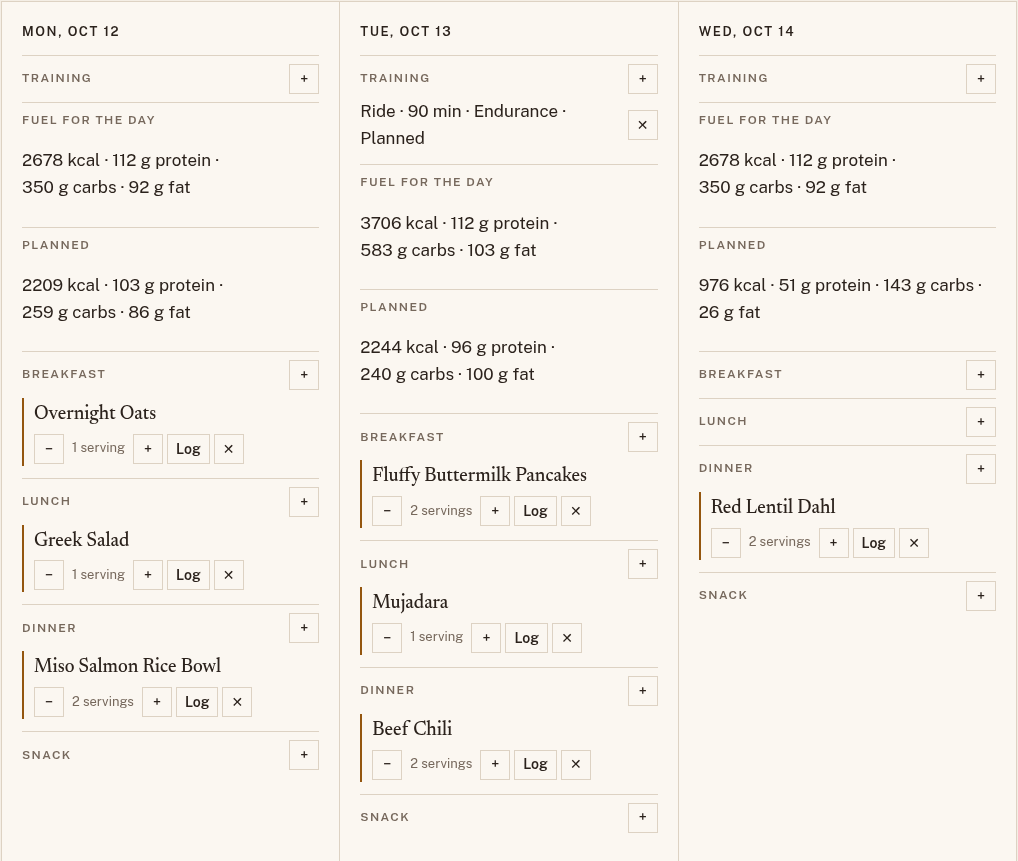
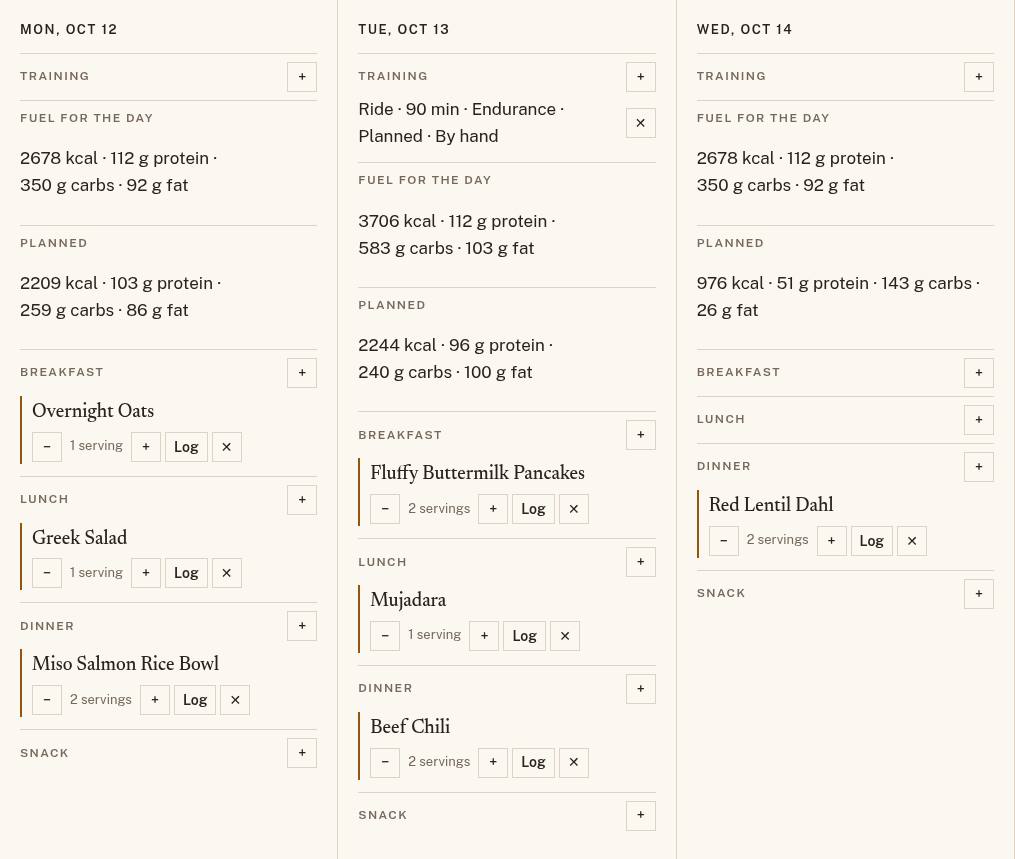
docs: connecting intervals.icu, for people and for self-hosters
The fuel guide explains connecting intervals.icu, what comes across and
how often, Refresh, what each problem means, and Disconnect, and lists
all five sources of training energy in order. The self-hosting guide
covers MIMOS_SECRET_KEY, turning the integration off, rotating the key,
and the sync interval. Screenshots: the connected section, and the plan
week retaken with each session's source.

diff --git a/docs/guide/fuel.md b/docs/guide/fuel.md
@@ -51,7 +51,9 @@ harm health and performance.
 With targets on, each day on the [plan](planning.md) shows three lines
 above its meals:
 
-- **Training**: the sessions you've added for that day.
+- **Training**: the sessions you've added for that day, and any that
+  came from [intervals.icu](#bring-in-training-from-intervalsicu). Each
+  says where it came from: **By hand** or **intervals.icu**.
 - **Fuel for the day**: the day's target.
 - **Planned**: what you'll eat if you eat what you planned. See
   [Your planned total](planning.md#your-planned-total).
@@ -86,6 +88,63 @@ Mimos counts the training you add to a day.
 The day's fuel for the day changes at once. A day can hold several
 sessions, and they add up. To take one out, choose **✕** next to it.
 
+## Bring in training from intervals.icu
+
+If you plan or record your training in [intervals.icu](https://intervals.icu),
+Mimos can bring it in, so you don't add it by hand. Your planned workouts
+count until you do them; once an activity is recorded for a day, it counts
+instead.
+
+1. In intervals.icu, open **Settings** and find the **Developer
+   Settings** section. Copy your **Athlete ID** (it starts with `i`, such
+   as `i12345`) and your **API key**.
+2. In Mimos, open the profile menu, choose **Fuel**, and find
+   **intervals.icu** below your settings.
+3. Enter the **Athlete ID** and **API key**, and choose **Connect**.
+
+Mimos checks the key with intervals.icu before it saves it, then brings in
+your training straight away. It keeps the key encrypted and never shows it
+again.
+
+![The Fuel page's intervals.icu section: connected as i1, with the last sync time, Refresh, and Disconnect](../assets/screenshots/fuel-intervals.png)
+
+### What comes across
+
+- Your planned workouts and completed activities from a week ago to two
+  weeks ahead. They show on the plan marked **intervals.icu**, without
+  **✕**: to change or remove one, change it in intervals.icu, and Mimos
+  follows.
+- Your body fat, if you log it in intervals.icu. While **Body fat (%)**
+  is empty in your fuel settings, your targets use it, and the Fuel page
+  says so.
+- Your weight, sex, and cycling FTP. Mimos never changes your settings
+  with these on its own: where one differs, the Fuel page shows it beside
+  the field with **Use it**, which copies it in. Choose **Save** to keep
+  it.
+
+Mimos checks intervals.icu for changes on its own, every half hour unless
+your instance says otherwise. To see a change at once, choose **Refresh**.
+The Fuel page says when training last came across.
+
+### When something goes wrong
+
+- **intervals.icu asked Mimos to wait.** intervals.icu limits how often
+  it can be asked. Mimos waits until the time it shows, then carries on by
+  itself.
+- **intervals.icu could not be reached.** Mimos tries again at the next
+  check. Your training so far stays.
+- **intervals.icu no longer accepts this API key.** The key was changed
+  or removed in intervals.icu, or this Mimos instance can no longer read
+  the saved one. Enter your API key again and choose **Connect**. Until
+  you do, nothing new comes across, and the training already brought in
+  stays.
+
+### Disconnect
+
+Choose **Disconnect**, then **Yes, disconnect**. Mimos forgets your API
+key and removes the training that came from intervals.icu. Training you
+added by hand stays.
+
 ## Where the numbers come from
 
 Every target is worked out from your settings and that day's training each
@@ -99,20 +158,29 @@ calories = goal level × fat-free mass + training energy
 ```
 
 **Fat-free mass** is your weight minus your body fat. If you leave
-**Body fat (%)** empty, Mimos assumes 15% for men, 25% for women, and 20%
-if you'd rather not say.
+**Body fat (%)** empty, Mimos uses your latest body fat from
+intervals.icu, if you've connected it and log it there; otherwise it
+assumes 15% for men, 25% for women, and 20% if you'd rather not say.
 
-**Training energy** is worked out for each session:
+**Training energy** is worked out for each session, from the first of
+these that it has:
 
+- **The work you did, or plan to do.** An activity or planned workout
+  from intervals.icu with power data carries its work in kilojoules, and
+  Mimos uses it as it is (see below for why kilojoules count as
+  kilocalories).
 - **A ride, with your FTP set.** Your FTP times a share of it for the
   intensity (55% for easy, 68% for endurance, 85% for hard), times the
   minutes, gives the work you do in kilojoules. Mimos counts that as the
   same number of kilocalories: the body turns about a quarter of the energy
   it burns into work on the pedals, and that quarter almost exactly cancels
   the 4.184 kilojoules in a kilocalorie.
-- **Anything else**, or a ride without an FTP: an estimate from your weight,
-  the minutes, and the intensity, using typical values from the Compendium
-  of Physical Activities.
+- **The calories intervals.icu reported** for an activity without power
+  data, such as a run with a heart rate strap.
+- **Anything else**: an estimate from your weight, the minutes, and the
+  intensity, using typical values from the Compendium of Physical
+  Activities. A session from intervals.icu with no intensity counts as
+  endurance.
 
 For example, a 70 kg rider with 15% body fat who chooses **Fuel my
 training** has 59.5 kg of fat-free mass, so a rest day comes to 45 × 59.5,

diff --git a/docs/self-hosting.md b/docs/self-hosting.md
@@ -161,6 +161,33 @@ never does: it logs a warning and contributes nothing until it's back.
 Delete the `country-week` service, its `country-week-data` volume, and
 the two `MIMOS_PLUGINS_0_*` lines from `compose.yml`.
 
+## intervals.icu
+
+People can connect their own intervals.icu account on the Fuel page, so
+their planned workouts and completed activities feed their fuel targets
+(see [Bring in training from intervals.icu](guide/fuel.md#bring-in-training-from-intervalsicu)).
+Each person uses a personal API key from their intervals.icu settings, so
+there is no app to register. The API reaches `https://intervals.icu`, so
+the server needs outbound HTTPS.
+
+- **Turning it on.** It is on whenever `MIMOS_SECRET_KEY` is set. Leave
+  the key empty, or add `MIMOS_INTERVALSICU_ENABLED: "false"` to the `api`
+  service's environment, and the Fuel page offers training entered by
+  hand only.
+- **The key.** Mimos encrypts each person's intervals.icu API key under
+  `MIMOS_SECRET_KEY` (AES-256-GCM) and never shows it again. Generate it
+  once with `openssl rand -base64 32` and back it up with your `.env`. If
+  it changes, no stored key opens any more: every connection reads as
+  needing its key again, and each person re-enters theirs on the Fuel
+  page. Training already synced stays until they do.
+- **How often it syncs.** Every 30 minutes, each connected person in
+  turn; their Refresh button syncs them at once. Set
+  `MIMOS_INTERVALSICU_SYNCINTERVAL` on the `api` service (such as `15m`,
+  at least `1m`) to change it. A sync makes four requests to
+  intervals.icu, well inside the 5,000 a day it allows each key. When
+  intervals.icu asks Mimos to slow down, Mimos waits as long as it says
+  before that person's next sync.
+
 ## AI agents
 
 Users can connect AI agents such as Claude Code to Mimos over MCP, at your

diff --git a/AGENTS.md b/AGENTS.md
@@ -136,7 +136,7 @@ wire-format contract:
   sessions. Never name a package `target`: `.gitignore` and
   `.dockerignore` drop every `target` directory as build output.
 - `integrations/intervals-icu` — training from intervals.icu (ADR-0022).
-  Built so far: `IntervalsIcuClient` (HTTP Basic as `API_KEY` with a
+  Its pieces: `IntervalsIcuClient` (HTTP Basic as `API_KEY` with a
   person's key; every call answers an `IcuResult`, with a 401 and a 429
   distinct from other failures), `IntervalsIcuTranslator`, and `SecretBox`
   (AES-256-GCM under `MIMOS_SECRET_KEY`, a fresh 96-bit nonce from the
@@ -395,7 +395,7 @@ mimos/
 │   └── core-fueling/     # fuel profiles, training sessions, daily targets (ADR-0022)
 ├── integrations/
 │   ├── plugins/          # plugin runtime: registry, extension-API client, card validation (ADR-0006)
-│   └── intervals-icu/    # training sync from intervals.icu (ADR-0022): client, translator, key encryption, connections, and on-demand and scheduled sync
+│   └── intervals-icu/    # training sync from intervals.icu (ADR-0022): client, translator, key encryption, connections, and sync
 ├── libraries/            # shared contracts: OpenAPI-generated clients, plugin SDK
 │   ├── api-client/       # @mimos/api-client — generated TypeScript client (committed)
 │   └── plugin-sdk/       # @mimos/plugin-sdk — generated TypeScript types for the plugin API (committed)

diff --git a/docs/plans/fuel-targets/20-intervals-docs.md b/docs/plans/fuel-targets/20-intervals-docs.md
@@ -26,4 +26,26 @@ questions" in the index.
 
 - `devenv shell -- mkdocs build --strict`.
 
+## Result
+
+- `docs/guide/fuel.md` gains "Bring in training from intervals.icu":
+  where the athlete id and key are, what comes across (sessions, body
+  fat, and weight, sex, and FTP as suggestions), how often, Refresh, the
+  three things that can go wrong, and Disconnect. "Where the numbers
+  come from" now lists all five energy sources in order and synced body
+  fat. A new screenshot, `fuel-intervals.png`; `fuel-plan.png` retaken
+  with the source label, from the same week and meals.
+- `docs/self-hosting.md` gains an intervals.icu section: turning it on
+  and off, `MIMOS_SECRET_KEY` and what rotating it does, and
+  `MIMOS_INTERVALSICU_SYNCINTERVAL`.
+- AGENTS.md describes `integrations/intervals-icu` as built.
+
+**The owner check did not happen in this session:** the owner was
+asleep, and it needs their account. Decision: it does not block closing
+step 14. The code already handles both answers (a planned ride with
+`joules` counts its work; one without falls back to FTP or the
+estimate), so the answer changes what ADR-0022 records, not what ships.
+The two questions stay under "Open questions" in the index until the
+owner connects their account.
+
 Land on `main`; set row 20 to `done`.

diff --git a/docs/plans/fuel-targets/index.md b/docs/plans/fuel-targets/index.md
@@ -139,11 +139,12 @@ one to an item when you pick it up.
 
 These stay unproven after the prototypes that settled the macro rule.
 
-- Which intervals.icu planned workouts carry `joules`. Item 20 asks the
-  owner to check with a real account.
-- Whether `icu_intensity` is a percentage of FTP. Its OpenAPI spec says
-  only "float", and the translator (item 12) assumes a percentage when it
-  picks easy, endurance, or hard. Item 20 checks it with a real account.
+- Which intervals.icu planned workouts carry `joules`, and whether
+  `icu_intensity` is a percentage of FTP (its OpenAPI spec says only
+  "float"; the translator assumes a percentage when it picks easy,
+  endurance, or hard). Both wait for the owner to connect their own
+  account on a local stack; item 20 records why they do not block step
+  14. Record the answers in ADR-0022.
 - Whether level 50 suits weight gain. It has no published source.
 - How far the default body-fat values move a person's targets from their
   measured ones.
